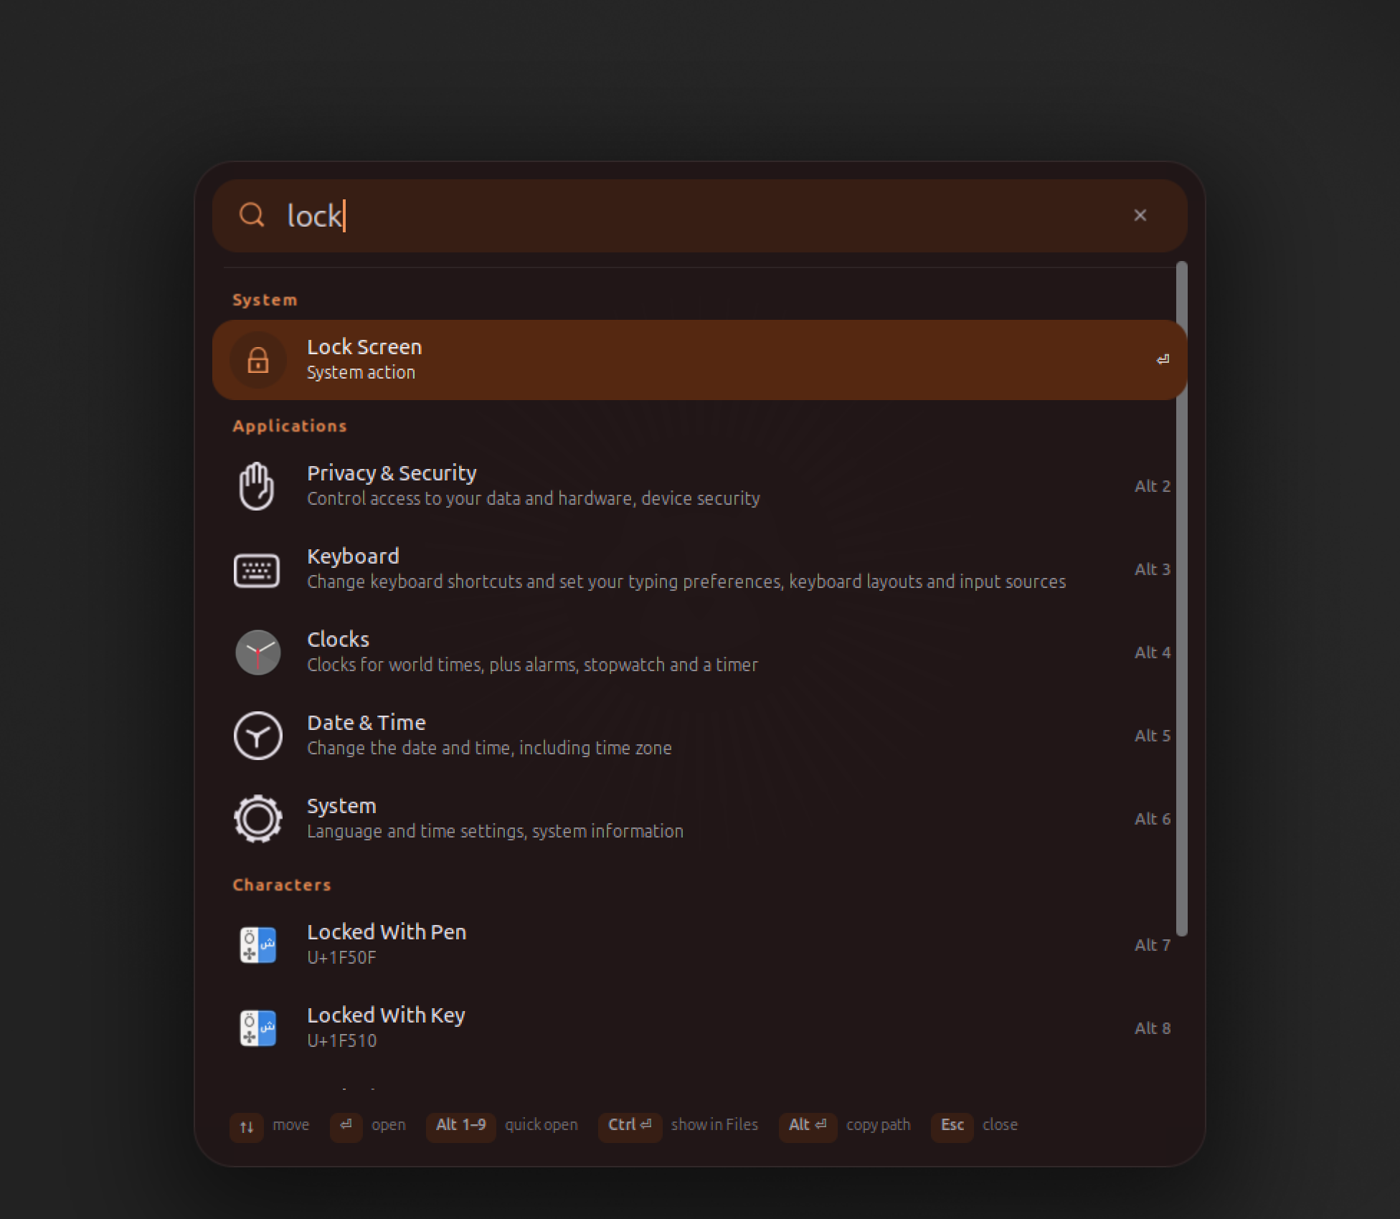
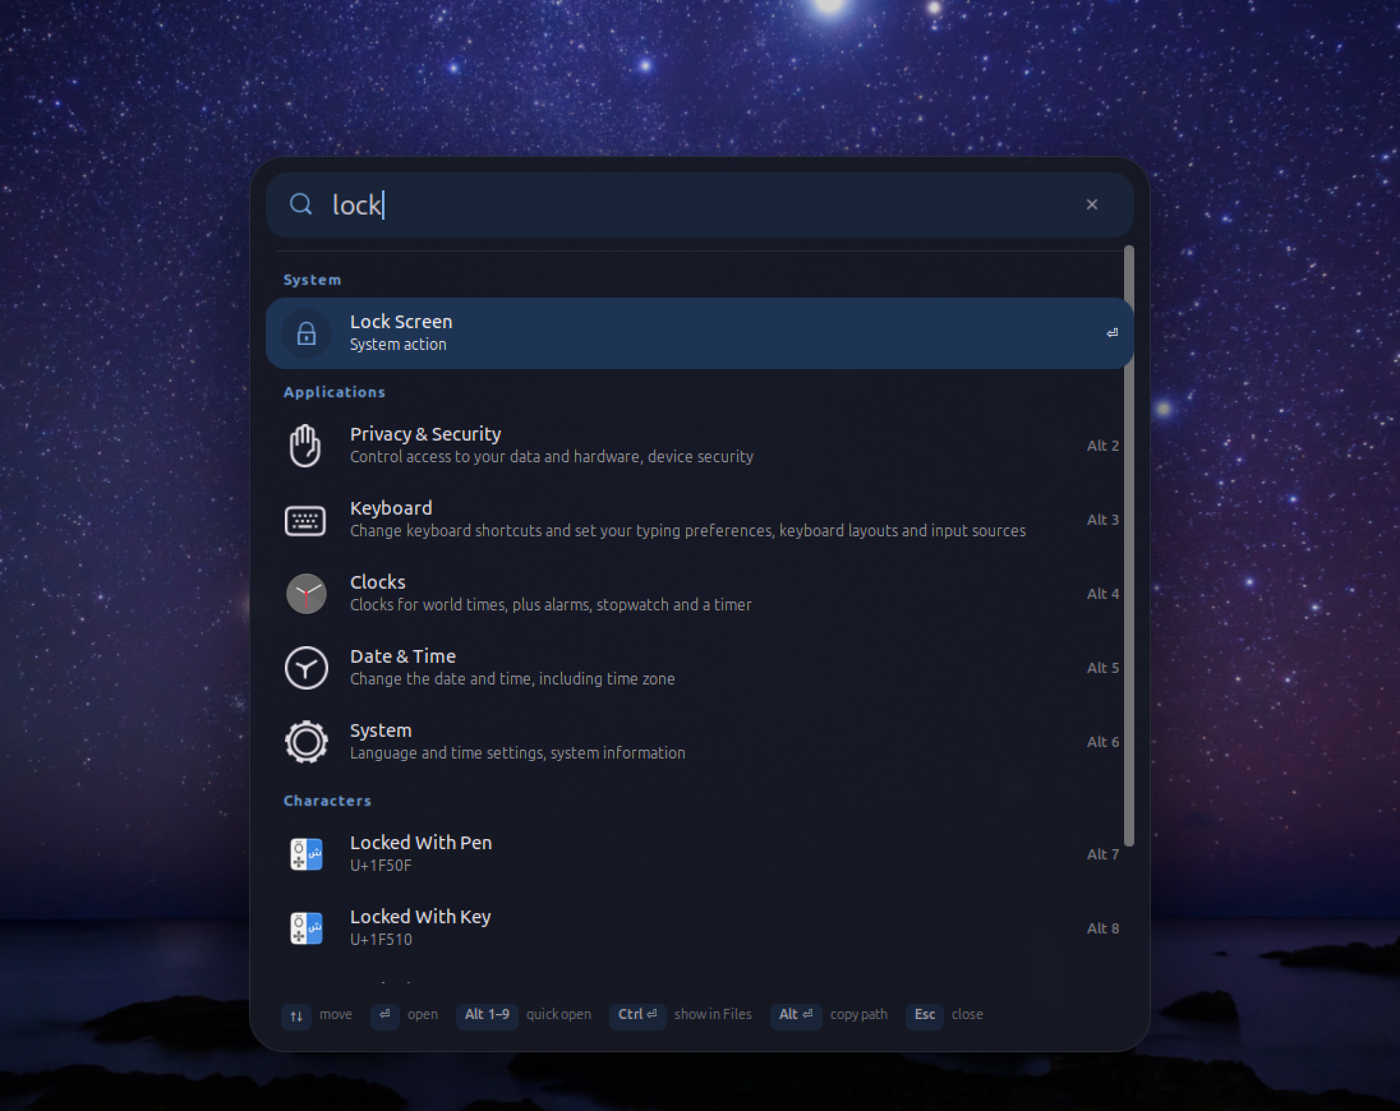
docs: reshoot screenshots in blue, Nord and Catppuccin accents
The test session used Ubuntu's default orange accent, which made every
picture orange. Show what the accent setting actually does instead.

diff --git a/README.md b/README.md
@@ -72,14 +72,21 @@ Anything else gets a **Search the web** row at the bottom.
 | <kbd>Alt</kbd> + <kbd>Enter</kbd> | copy a file's path |
 | <kbd>Esc</kbd>, the shortcut again, the ✕ button, or a click outside | close |
 
+Every colour comes from one accent: your system's, or any colour you pick.
+
 <p align="center">
-  <img src="docs/light.png" width="420" alt="Light mode with a custom teal accent, converting 10 km to miles">
-  <img src="docs/emoji.png" width="420" alt="Finding the smile emoji through GNOME Characters">
+  <img src="docs/suggestions.png" width="420" alt="Blue accent: suggested apps before typing">
+  <img src="docs/dark.png" width="420" alt="Blue accent, searching for “lock”: Lock Screen is the top hit">
 </p>
 <p align="center">
-  <img src="docs/suggestions.png" width="420" alt="Suggested apps before typing">
-  <img src="docs/dark.png" width="420" alt="Dark mode, searching for “lock”: Lock Screen is the top hit">
+  <img src="docs/nord.png" width="420" alt="Nord frost accent (#88c0d0), searching for “lock”">
+  <img src="docs/catppuccin.png" width="420" alt="Catppuccin mauve accent (#cba6f7), finding the smile emoji">
 </p>
+<p align="center">
+  <img src="docs/light.png" width="420" alt="Light mode with a teal accent, converting 10 km to miles">
+  <img src="docs/emoji.png" width="420" alt="Blue accent, finding the smile emoji through GNOME Characters">
+</p>
+<p align="center"><sub>Blue · Nord <code>#88c0d0</code> · Catppuccin <code>#cba6f7</code> · light with teal <code>#1a7f72</code></sub></p>
 
 ## Make it yours
 
